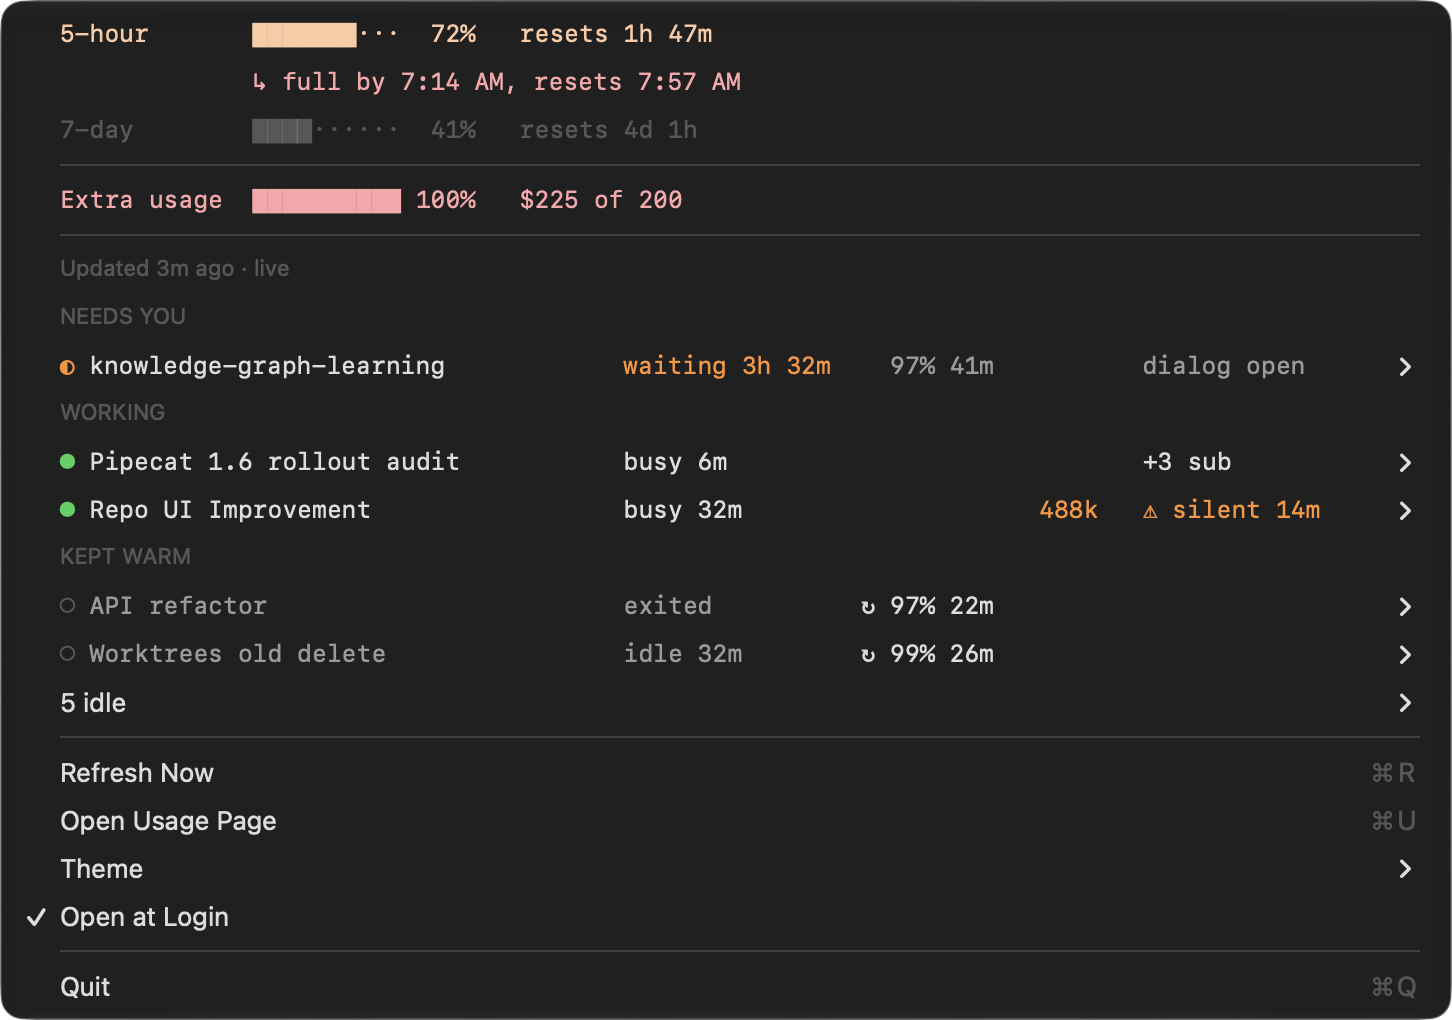
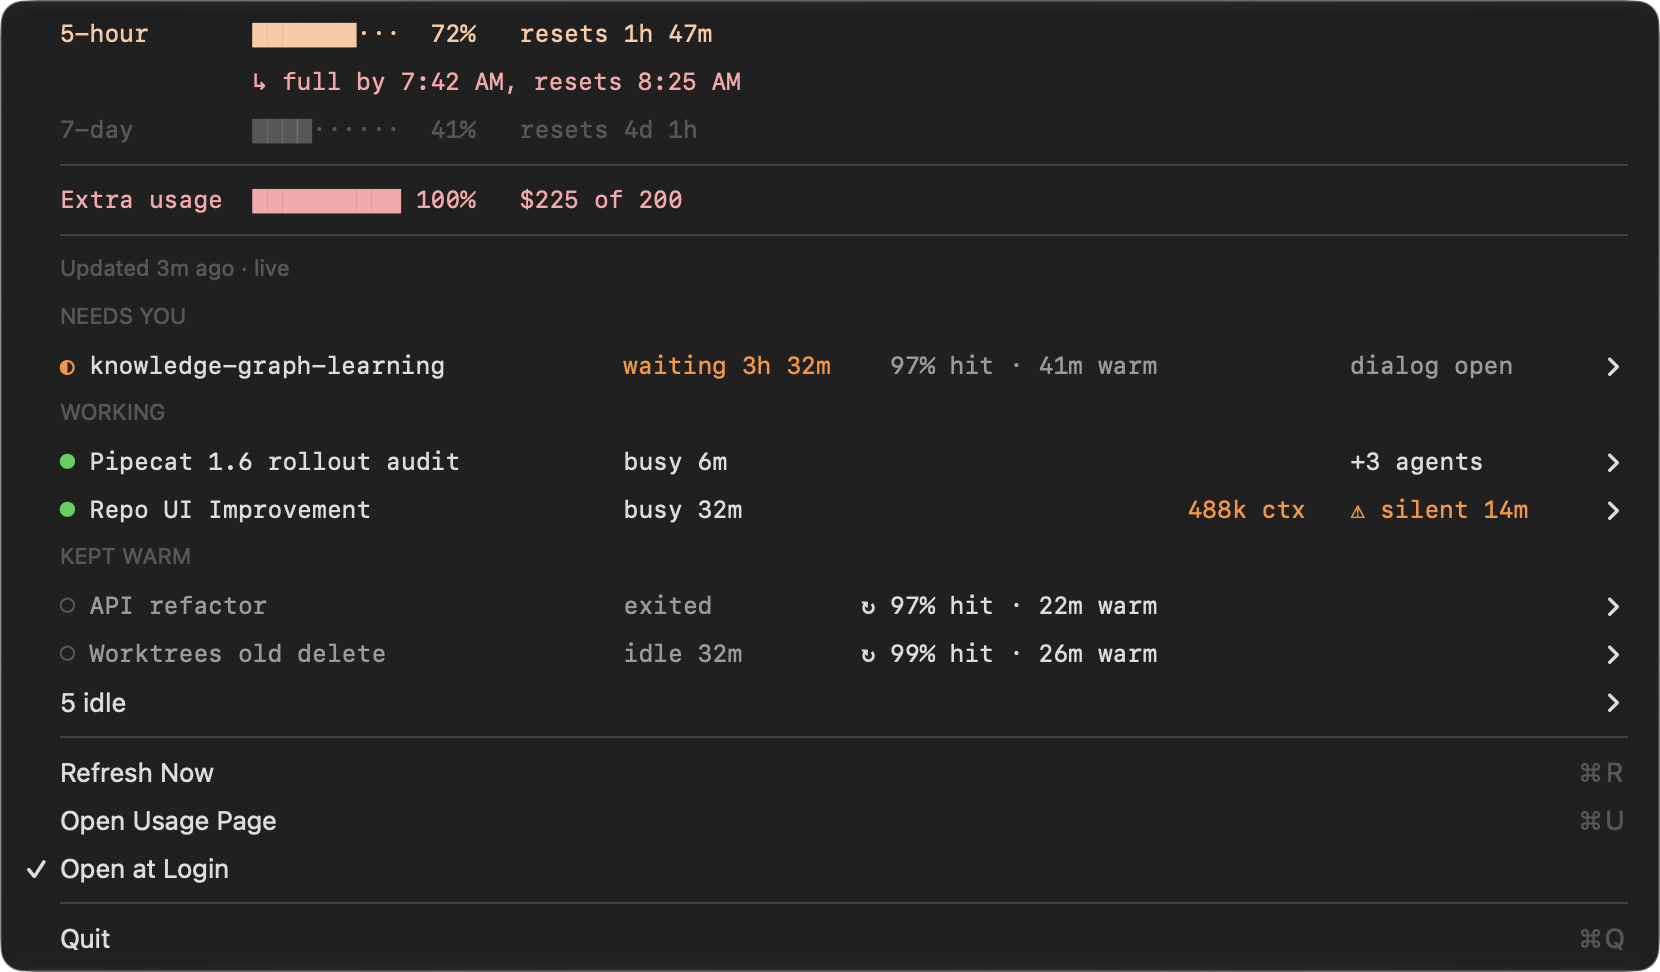
feat: label the cache, context and subagent values in session rows
`97% 42m`, `488k` and `+3 sub` were unreadable without knowing the app.
They now read `97% hit · 42m warm`, `488k ctx` and `+3 agents`, and a
lapsed cache reads `cache cold`. The README screenshot is retaken.

diff --git a/Sources/main.swift b/Sources/main.swift
@@ -711,23 +711,23 @@ func sessionRow(_ a: AgentSession, font: NSFont, now: Date, pin: Pin? = nil) -> 
     if !a.isBusy, let c = cacheState(a, pin: pin) {
         let left = c.remaining(at: now)
         if left > 0 {
-            let hit = c.hit.map { "\(Int(($0 * 100).rounded()))% " } ?? ""
+            let hit = c.hit.map { "\(Int(($0 * 100).rounded()))% hit · " } ?? ""
             // A low hit on a warm session means something rewrote the prefix.
             let tint: NSColor = (c.hit ?? 1) < 0.8 ? .systemOrange : (pin != nil ? .labelColor : .secondaryLabelColor)
-            add(pad(mark + hit + formatDuration(left), 12), tint)
+            add(pad(mark + hit + formatDuration(left) + " warm", 22), tint)
         } else {
-            add(pad(mark + "cold", 12), .tertiaryLabelColor)
+            add(pad(mark + "cache cold", 22), .tertiaryLabelColor)
         }
     } else {
-        add(pad(pin != nil ? mark : "", 12), base)
+        add(pad(pin != nil ? mark : "", 22), base)
     }
 
     if let tokens = a.contextTokens, tokens >= contextWarnTokens {
-        add(pad(formatTokens(tokens), 7), tokens >= contextAlertTokens ? .systemRed : .systemOrange)
+        add(pad(formatTokens(tokens) + " ctx", 11), tokens >= contextAlertTokens ? .systemRed : .systemOrange)
     } else {
-        add(pad("", 7), base)
+        add(pad("", 11), base)
     }
-    if a.subagents > 0 { add("+\(a.subagents) sub  ", base) }
+    if a.subagents > 0 { add("+\(a.subagents) agents  ", base) }
     if let quiet = a.silence(at: now) { add("\u{26A0} silent \(formatDuration(quiet))", .systemOrange) }
     if a.isWaiting, let why = a.waitingFor { add(why, .secondaryLabelColor) }
     return out

diff --git a/README.md b/README.md
@@ -37,7 +37,7 @@ Full history: [CHANGELOG.md](CHANGELOG.md).
 - **Agent counts.** Top-level sessions and background subagents (`2 busy (+3)`),
   with a spinner in the menu bar while anything runs.
 - **Prompt cache status.** Each idle session shows its last cache hit and time
-  until the cache lapses (`97% 42m`), or `cold`.
+  until the cache lapses (`97% hit · 42m warm`), or `cache cold`.
 - **Keep Cache Warm.** Pin a session and it is pinged shortly before the cache
   expires, so coming back to it costs cache-read prices, not a full rewrite.
   One avoided cold turn pays for about 20 pings.

diff --git a/docs/HOW-IT-WORKS.md b/docs/HOW-IT-WORKS.md
@@ -74,7 +74,7 @@ derived name.
   session whose transcript and subagent transcripts have not been written for
   10 minutes.
 - **Cache.** Idle and waiting rows show the last request's cache hit and how
-  long until its prompt cache lapses (`97% 42m`), or `cold`. The TTL (1h or 5m)
+  long until its prompt cache lapses (`97% hit · 42m warm`), or `cache cold`. The TTL (1h or 5m)
   comes from the request's cache write. Busy rows omit it; they refresh their
   own cache every turn.
 - **Kept warm** rows are pinned sessions (`↻`); other idle sessions fold into a
